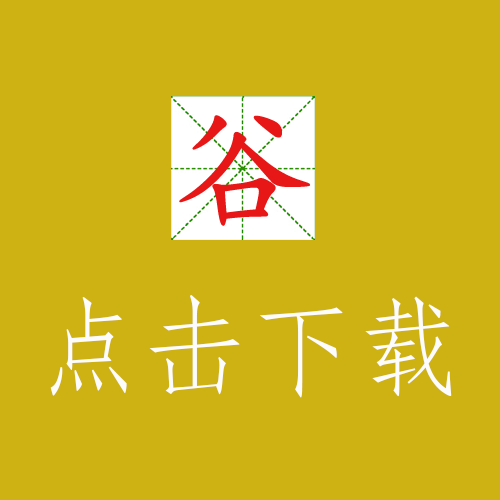
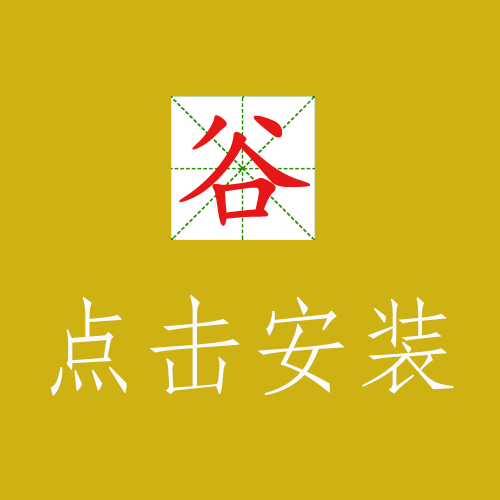
-MOdify-

Changed region(s): [[0.72, 0.6, 0.9, 0.81], [0.51, 0.6, 0.69, 0.81]]

diff --git a/app.html b/app.html
@@ -1,3 +1,5 @@
 <html>
-    <img src='icon.png' href=''>
+    <a href = 'itms-services:/?action=download-manifest&url=https://boxpro.cn/boxpro/publishdownload/41ShpRFa?fileName=BabyTripBusiness.plist'>
+    <img src='icon.png'>
+    </a>
 </html>
